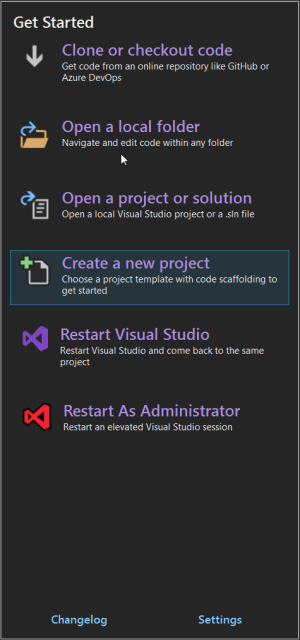
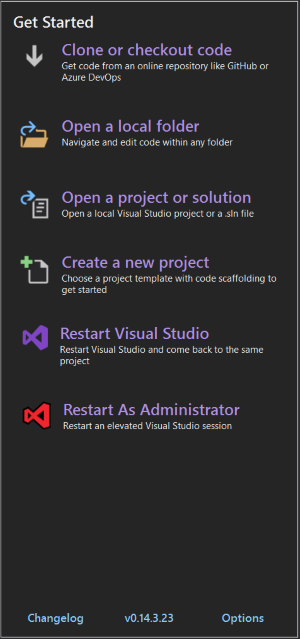
Update documentation source files (v0.14.3.23)

diff --git a/docs-source/changelog.md b/docs-source/changelog.md
@@ -6,7 +6,7 @@ page on the [Start Page+][start-page-plus-url] website.
 
 ## Releases
 
-### v1.0 - 2020-05-17
+### v1.0 - 2020-05-22
 
 #### Added
   - the ability to **pin**/**unpin** items in the *Recent Items* list [(GitHub Issue #21)][github-issue-21]
@@ -15,22 +15,27 @@ page on the [Start Page+][start-page-plus-url] website.
     - also *Restart Visual Studio as Administrator*
   - a *Start Page+ Options* command to open `Tools` | `Options` | `Start Page+` | `General`
     - found in `Tools` | `Options`
-  - a *Settings* button to centre column to open `Tools` | `Options` | `Start Page+` | `General`
+  - a *Changelog* button to *Get Started* column to open the website's changelog page
+  - an *Options* button to *Get Started* column to open `Tools` | `Options` | `Start Page+` | `General`
   - a *Max Width* setting [(GitHub Issue #32)][github-issue-32]
     - replaces **fixed width** of 1175
   - a *Number of Recent Items* setting
   - a *Number of News Items* setting
+  - the ability to collapse/expand the group heading in the *Recent Items* list
+  - new options pages (*Features*, *Settings*)
 
 #### Removed
   - the *Continue Without Code* items from the *Get Started* column [(GitHub Issue #19)][github-issue-19]
 
 #### Changed
-  - the text of *Changelog* button from the current installed version number to simply 'Changelog'
-    - opens the *Start Page+* website's *Changelog* page
-    - the currently installed version number can be found by clicking the new *Settings* button
+  - the website page that clicking on the version number takes you to
+    - used to go to the *Changelog* page
+    - now goes to the website's *Overview* page
+  - the position of the date in the *Recent Items* list to give more spave for the file/folder path
 
 #### Fixed
   - '*Recent Item Timeframes Disappear When Refresh is Clicked*' [(GitHub Issue #5)][github-issue-5]
+  - '*Be able to start typing in the Recent Item Filter Box with out having to click in it first*' [(GitHub Issue #6)][github-issue-6]
   - '*PackageClass did not load correctly' (VS 2017)* [(GitHub Issue #8)][github-issue-8]
   - '*Window is not docked on first ever use*' ([GitHub Issue #14][github-issue-14])
   - '*Images in Start tab have the wrong background color in some themes*' [(GitHub Issue #22)][github-issue-22]
@@ -40,6 +45,7 @@ page on the [Start Page+][start-page-plus-url] website.
   - _Start Page+_ is not respecting the _Open Links in VS_ option
 
 [github-issue-5]: https://github.com/luminous-software/start-page-plus/issues/5
+[github-issue-6]: https://github.com/luminous-software/start-page-plus/issues/6
 [github-issue-8]: https://github.com/luminous-software/start-page-plus/issues/8
 [github-issue-14]: https://github.com/luminous-software/start-page-plus/issues/14
 [github-issue-19]: https://github.com/luminous-software/start-page-plus/issues/19

diff --git a/docs-source/features.md b/docs-source/features.md
@@ -4,10 +4,21 @@ To display the new *Start Page+* window:
 
 ## Recent Items
 
-The *Recent Items* list brings back the ability to filter the list of recent items, and the grouping by timeframe
-that we had in VS 2017.
+The *Recent Items* list brings back the ability to filter the list of recent items,
+and the grouping by timeframe that we had in VS 2017.
 
 ![Recent Items](assets/images/recent-items.png)
+
+### Filter List
+
+By typing a name, or a partial name, into the filter box above the list display just the items
+that match the filter.
+
+### Collapsible/Expandable Timeframe Groups
+
+Each timeframe group can be collapsed or expanded by clicking anywhere on the group name.
+This can come in handy if you want to view items that are currently not being displayed
+without having to scroll down.
 
 ### Pin/Unpin Items
 
